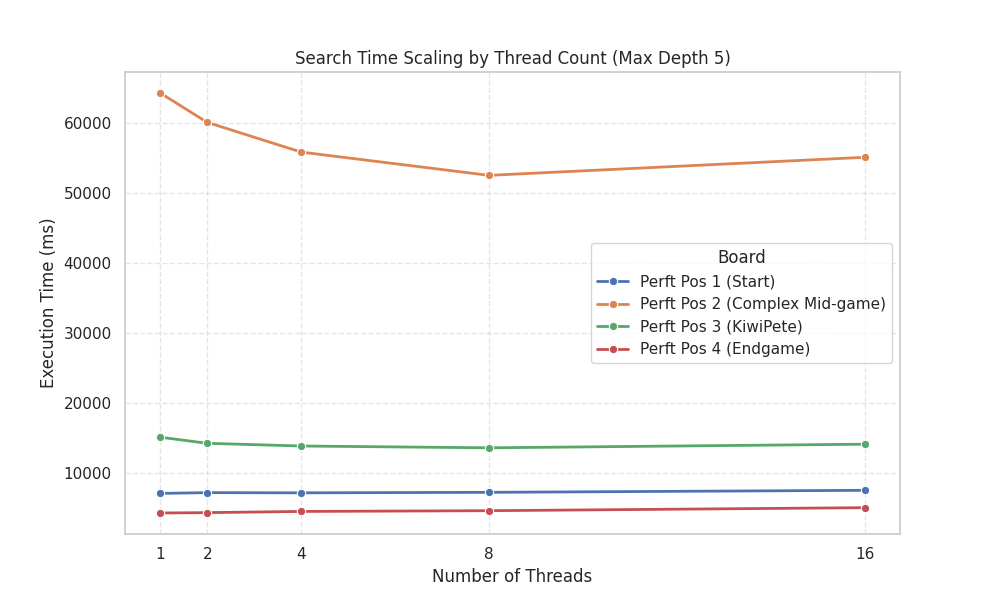
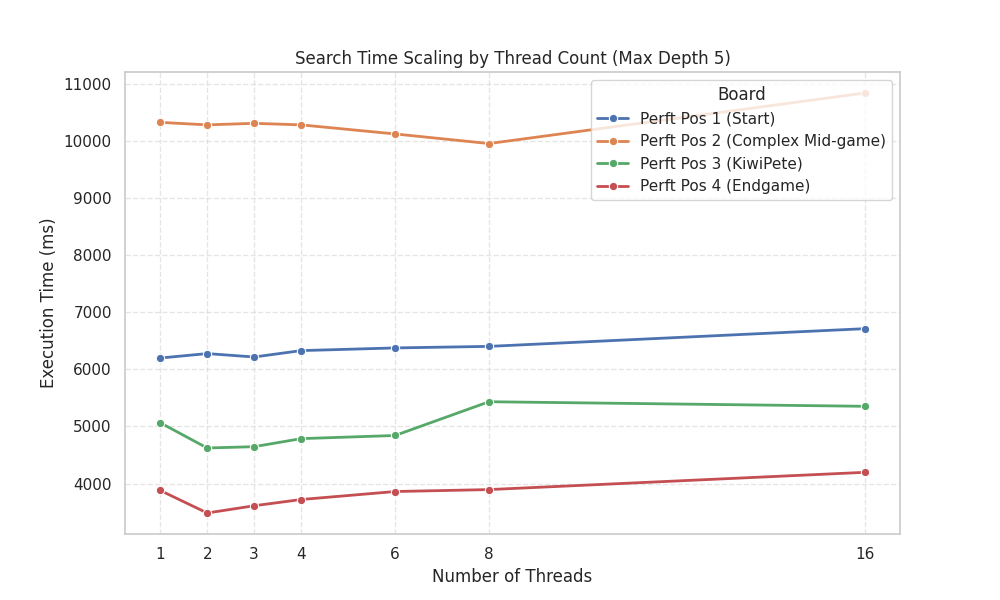
new thread benchmark

diff --git a/_drafts/quackmate.md b/_drafts/quackmate.md
@@ -1454,7 +1454,9 @@ However, correctness comes at a price known as the **"Intelligence Tax."** Becau
 This brings us to the question of hardware: can we simply throw more CPU cores at this BFS overhead to narrow the gap?
 
 #### Beyond Single-Threading: The Scaling Wall
-On dense, tactical positions where the branching factor is high, DuckDB finds some breathing room, delivering a modest **15-20% speedup** when moving from 1 to 8 threads. In Quack-Mate, we get this for free: the database handles the scheduling and synchronisation that would require hundreds of lines of complex lockless code in C++. However, the **Scaling Wall** is always lurking. Once the board simplifies, the overhead of managing thread barriers begins to outweigh the gains of parallel processing. As the plot below shows, throwing 16 cores at a problem that barely fills a single vector chunk is a recipe for diminishing returns.
+To analyze parallel scalability, we test the multi-threaded execution profile specifically at **Depth 5** rather than shallower depths. At shallow depths, the search tree takes under 3 seconds to process, meaning micro-benchmark noise and OS scheduling jitter distort the results into a jagged curve.
+
+Even under this denser workload, the database's parallel performance reveals the presence of a severe **Scaling Wall**. On dense, tactical positions where the branching factor is high, DuckDB finds a tiny bit of breathing room, delivering a microscopic **4-10% speedup** at the optimal 2 to 8 thread sweet spots (on the complex mid-game Board 2, execution time drops slightly from **10.3 seconds** on 1 thread to **9.9 seconds** on 8 threads, while the endgame Board 4 peaks at a **10% speedup** dropping from **3.9 seconds** to **3.5 seconds** at 2 threads). However, once we scale up to 16 threads, the database overhead of managing thread barriers and transaction synchronization under high concurrency rapidly cancels out these minor parallel gains, causing search times to actively degrade back to **10.8 seconds** (and **4.2 seconds** on the endgame). Because the search tree's logical traversal is deeply sequential under alpha-beta/PVS constraints, throwing more CPU cores at a problem that barely fills a fraction of a vector chunk only increases lock contention and coordination overhead, leaving threads queuing up at the database engine level.
 
 <img src="/assets/images/quackmate_threads.png" alt="Plot showing search time scaling by thread count across different board positions" width="700" style="display: block; margin: 2rem auto;"/>
 